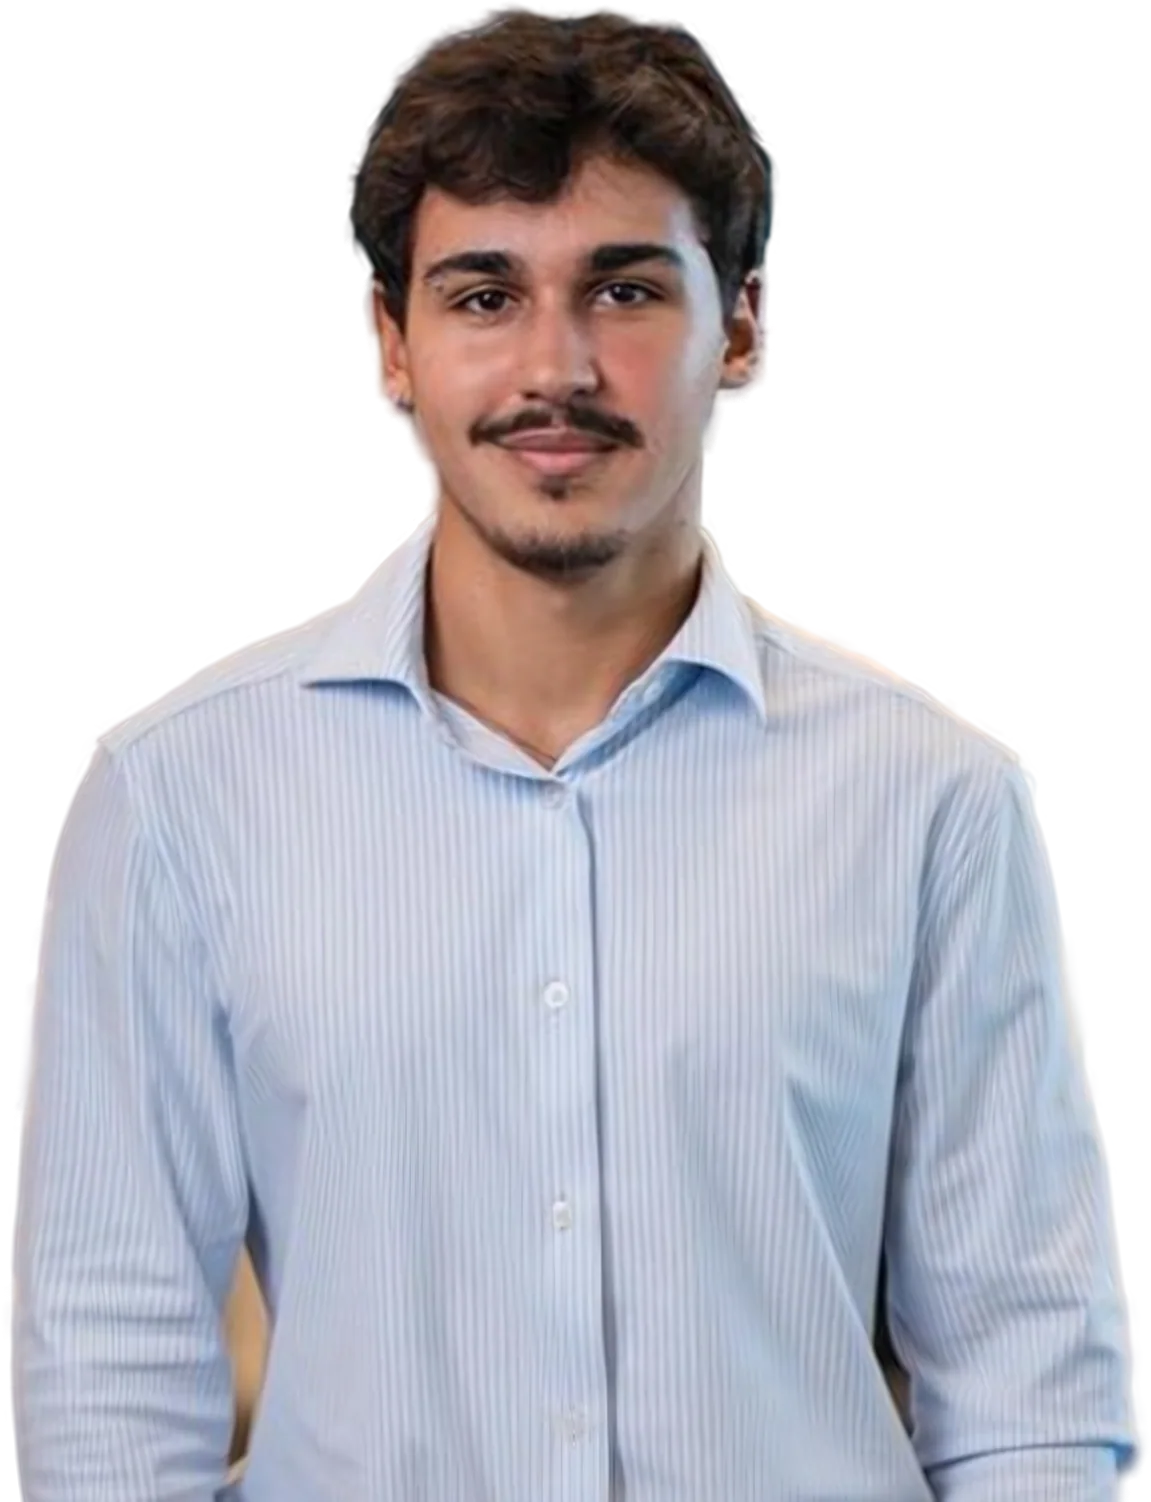
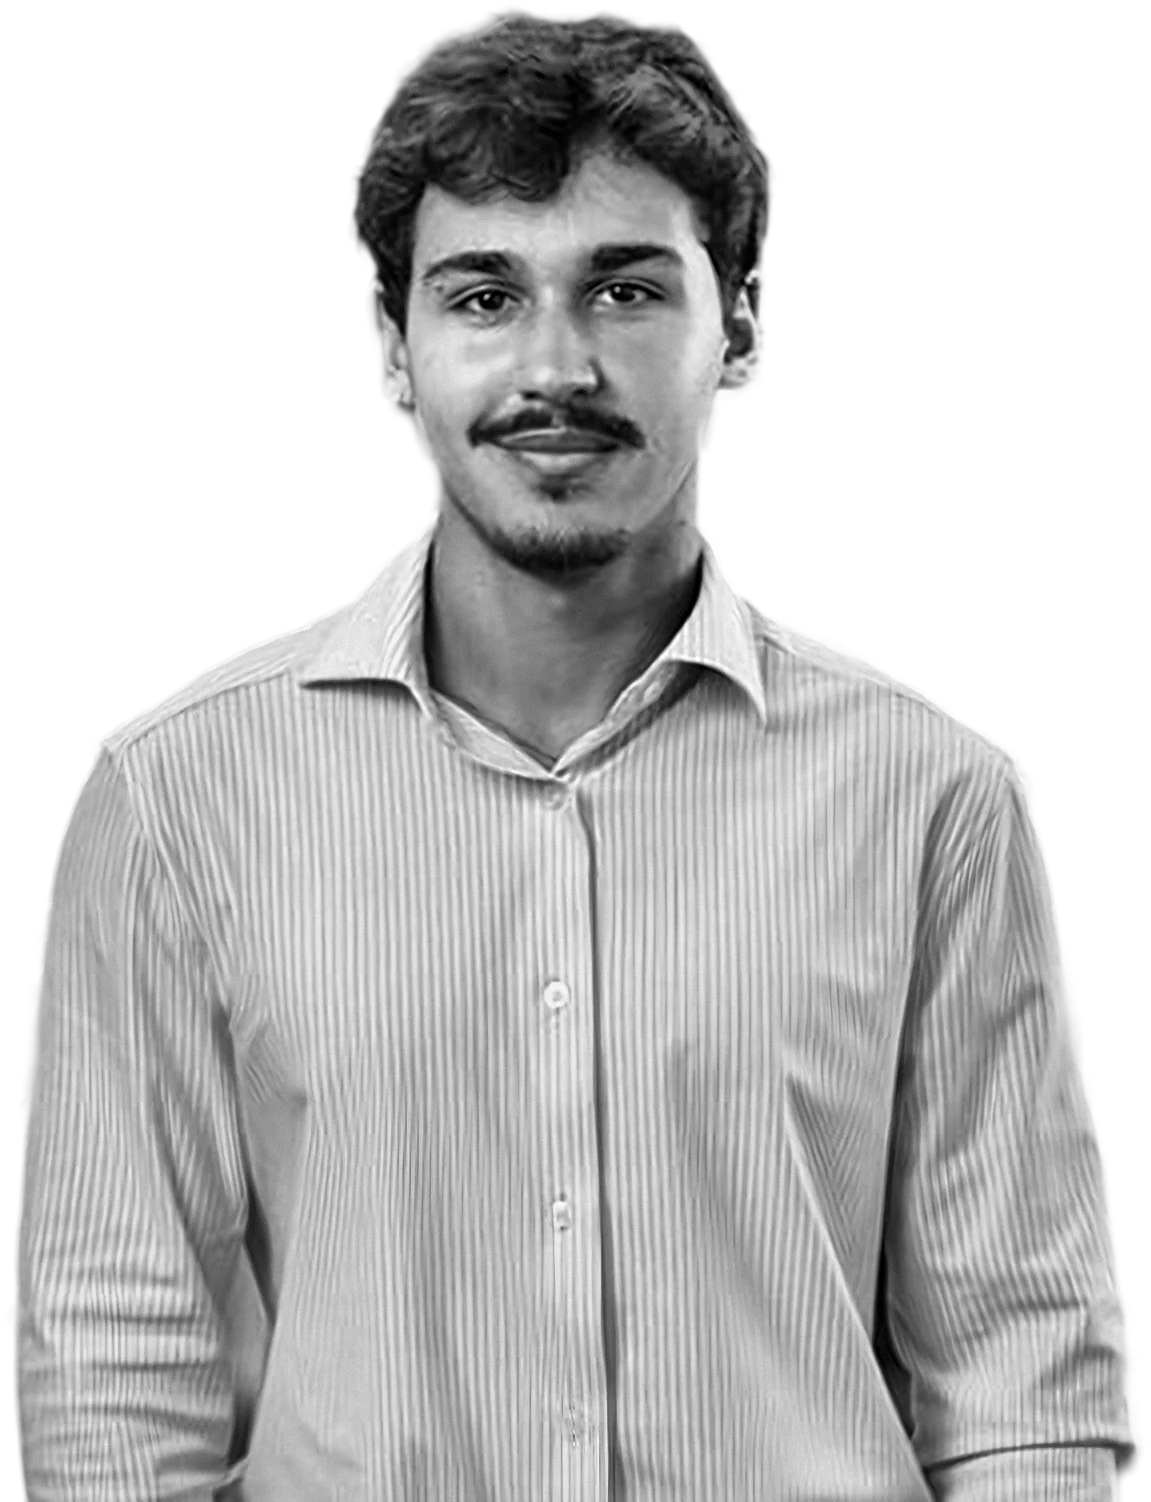
Inicio: foto com mais definicao (contraste local, nitidez e granulacao) e estrela mais baixa

diff --git a/index.html b/index.html
@@ -202,6 +202,9 @@ html{--z:1}
   .subt{font-size:clamp(34px,3.3cqw,56px)}
   .lead{font-size:16.5px}
 }
+@media(min-width:1600px){
+  .estrela{top:calc(43% - var(--sw) / 2)}
+}
 
 /* terminal (decorativo) */
 .term{background:linear-gradient(180deg,#161616,#101010);border:1px solid #262626;border-radius:20px;overflow:hidden;
